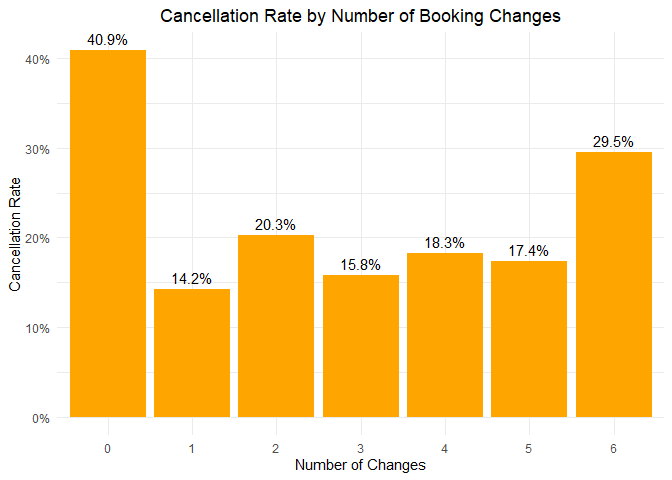
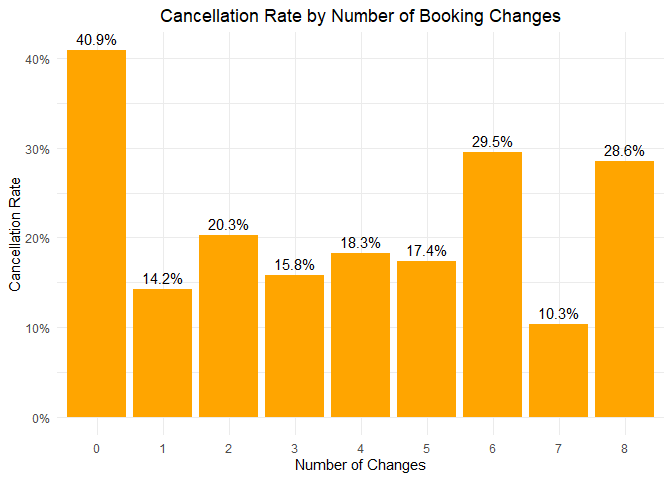
changed a graph and made small edits

diff --git a/README.md b/README.md
@@ -345,7 +345,10 @@ ggplot(cancellation_summary, aes(x = arrival_date_month, y = bookings, fill = is
 Looking at the chart the number of cancellations seems to follow the
 number of bookings. There doesn’t seem to be any super significant
 months or years where cancellations are more frequent in comparison to
-the number of bookings for that month.
+the number of bookings for that month. We found this a bit surprising as
+we thought winter months would have more cancellations to due unforeseen
+weather conditions, but we also do not know the weather patterns of the
+hotel locations so it is hard to say.
 
 Now we want to observe if the month/year affects the duration of a
 guest’s stay.
@@ -712,8 +715,8 @@ cleaned_data <- data %>%
   filter(!is.na(adr), !is.na(lead_time), adr <= 1000)
 
 ggplot(cleaned_data, aes(x = lead_time, y = adr)) +
-  geom_point(alpha = 0.15) +  # Scatter plot with transparency for better visibility
-  geom_smooth(method = "lm", color = "red", se = FALSE) +  # Line of best fit without shaded confidence interval
+  geom_point(alpha = 0.15) +  
+  geom_smooth(method = "lm", color = "red", se = FALSE) +  
   labs(
     title = "Relationship Between Lead Time and Average Daily Rate (ADR)",
     x = "Lead Time (Days)",
@@ -775,7 +778,7 @@ combined_monthly_data$arrival_date_month <- factor(
 ggplot(combined_monthly_data, aes(x = arrival_date_month, y = value, fill = arrival_date_month)) +
   geom_bar(stat = "identity", show.legend = FALSE) +
   scale_fill_manual(values = monthcolors) +
-  facet_wrap(~metric, scales = "free_y") +  # Side-by-side
+  facet_wrap(~metric, scales = "free_y") +  # makes it side-by-side for comparison, personal preference
   labs(title = "Monthly Comparison of Average Bookings and ADR",
        x = "Month", y = "Value") +
   theme(axis.text.x = element_text(angle = 45, hjust = 1),plot.title = element_text(hjust = 0.5))
@@ -896,7 +899,7 @@ data <- data %>%
   mutate(
     number_of_guests = adults + children + babies
   ) %>%
-  filter(!is.na(number_of_guests), number_of_guests > 0)  # Remove NA and 0 guests
+  filter(!is.na(number_of_guests), number_of_guests > 0)  
 
 # Find cancellation rate by group size
 group_cancellation <- data %>%
@@ -1063,6 +1066,15 @@ guest count and duration.
 
 ### What affects how many times bookings are changed?
 
+We are going to examine the relationship between number of booking
+changes made with:  
+- cancellation rate  
+- hotel type  
+- lead time  
+- returning guest status  
+- customer type  
+- deposit type
+
 ``` r
 data %>%
   count(booking_changes) %>%
@@ -1096,7 +1108,7 @@ data %>%
     cancel_rate = mean(is_canceled),
     .groups = "drop"
   ) %>%
-  filter(total > 50) %>%
+  filter(total > 10) %>%
   ggplot(aes(x = as.factor(booking_changes), y = cancel_rate)) +
   geom_bar(stat = "identity", fill = "orange") +
   geom_text(aes(label = scales::percent(cancel_rate, accuracy = 0.1)), 
@@ -1120,45 +1132,42 @@ there doesn’t seem to be much correlation between the number of booking
 changes and the cancellation rate. 0 booking changes has the highest
 rate of cancellation but 0 booking changes also has the highest number
 of occurrences out of the booking changes. Overall, the data from this
-graph isn’t significantly helpful in our analysis.
+graph isn’t significantly helpful in our analysis, but we originally
+thought that bookings with more changes made would be significantly
+higher for cancellation rates because in theory that customer would have
+plans that were not solid.
 
 This shows booking changes by hotel type.
 
 ``` r
-data %>%
-  group_by(hotel, booking_changes) %>%
-  summarise(n = n(), .groups = "drop") %>%
-  group_by(hotel) %>%
-  mutate(proportion = n / sum(n)) %>%
-  filter(n > 50) %>%  # limited number of booking changes to ones that occur more than 50 times 
-  ggplot(aes(x = as.factor(booking_changes), y = proportion, fill = hotel)) +
-  geom_bar(stat = "identity", position = position_dodge(width = 0.8), width = 0.7) +
-  scale_y_continuous(labels = percent_format()) +
+ggplot(data, aes(x = hotel, y = booking_changes, fill = hotel)) +
+  stat_summary(fun = mean, geom = "bar", width = 0.6, show.legend = FALSE) +
   labs(
-    title = "Proportion of Booking Changes by Hotel Type",
-    x = "Number of Booking Changes",
-    y = "Proportion of Bookings",
-    fill = "Hotel Type"
+    title = "Average Number of Booking Changes by Hotel Type",
+    x = "Hotel Type",
+    y = "Average Booking Changes"
   ) +
-  theme_minimal() + 
-  theme(
-    plot.title = element_text(hjust = 0.5)
-  )
+  theme_minimal() + theme(plot.title = element_text(hjust = 0.5))
 ```
 
 ![](README_files/figure-gfm/unnamed-chunk-27-1.png)<!-- -->
 
 As we can see the hotel type doesn’t seem to affect the number of
-booking changes very much. There is no significant data to be shown
-other than that they don’t seem to be very correlated as they seem
-relatively similarly.
+booking changes a lot, but the resort hotel does have a slightly higher
+average number of booking changes at about 0.3, whereas the city hotel
+has an average closer to 0.2 booking changes made. This is still
+relatively similar though. This could potentially be because resort
+hotels are more vacation-based so they probably have more groups going
+for fun that want booking changes to be made for convenience, as they
+don’t have to plan as strictly as groups like coworkers or teams that
+might book more frequently in cities.
 
 How does lead time correlate to booking changes? We hypothesize the
 longer lead time is the more booking changes will be made.
 
 ``` r
 data %>%
-  mutate(lead_time_bin = cut(lead_time, breaks = 20)) %>%  # bin
+  mutate(lead_time_bin = cut(lead_time, breaks = 20)) %>%  # this is like a bin, just had to do it a different way than normal
   group_by(lead_time_bin) %>%
   summarise(avg_booking_changes = mean(booking_changes), .groups = 'drop') %>%
   ggplot(aes(x = lead_time_bin, y = avg_booking_changes)) +
@@ -1177,7 +1186,7 @@ data %>%
 ![](README_files/figure-gfm/unnamed-chunk-28-1.png)<!-- -->
 
 As shown in the graph there doesn’t seem to be too much change in
-booking changes with lead time. It stays less than .5 average booking
+booking changes with lead time. It stays less than 0.5 average booking
 changes until we get to the 700 to 738 day lead time range, then it
 significantly spikes and the average number of booking changes is 3.
 However, there are very few values in that range, so likely it was just
@@ -1238,7 +1247,10 @@ ggplot(data, aes(x = customer_type, y = booking_changes, fill = customer_type)) 
 This graph shows that transient-party customer types are more likely to
 make more booking changes than the others with an average number of
 booking changes of about 0.35, and contract customers make the least
-amount of booking changes with an average around 0.11.
+amount of booking changes with an average around 0.11. This makes sense
+as with more people in a party there is bound to be more changes that
+have to be made to accommodate for more schedules, and transient groups
+have the most flexibility.
 
 Now we investigate the relationship between deposit type and number of
 booking changes.
@@ -1269,9 +1281,11 @@ data %>%
 ![](README_files/figure-gfm/unnamed-chunk-31-1.png)<!-- -->
 
 As you can see, refundable deposit types have a higher average number of
-changes made to the bookings at 0.59 on average, wherease no deposit is
+changes made to the bookings at 0.59 on average, whereas no deposit is
 next at 0.25, and non refund has a very low number of changes on average
-at 0.01.
+at 0.01. This agrees with our original hypothesis, as refundable deposit
+types allow customers more booking freedom which would allow for them to
+make changes easier.
 
 ### Where are most visitors coming from?
 
